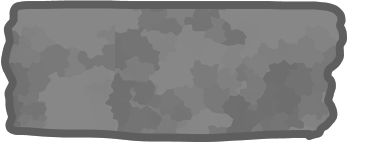
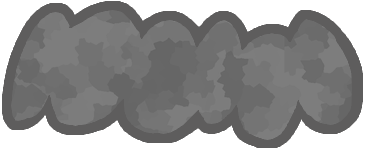
完成版

diff --git a/WCE2015Game-Siv3D(June2015v2)/Obstacle.cpp b/WCE2015Game-Siv3D(June2015v2)/Obstacle.cpp
@@ -3,7 +3,7 @@
 
 using namespace shimi;
 
-Obstacle::Obstacle(const Point& pos, const FilePath& imagePath, double simp = 3.0) : ObstacleBase(pos, MultiPolygon()), m_tex(imagePath)
+Obstacle::Obstacle(const s3d::Point& pos, const FilePath& imagePath, double simp = 3.0) : ObstacleBase(pos, MultiPolygon()), m_tex(imagePath)
 {
 	if (!FileSystem::Exists(imagePath))
 	{
@@ -64,26 +64,31 @@ void ObstacleBase::drawDebug()const
 	}
 }
 
-BreakableObstacle::BreakableObstacle(const Rect& rect, const ShimiColors& col)
-	:ObstacleBase(rect.pos, MultiPolygon({rect.asPolygon()})),
-	m_rect(rect),
-	m_col(col),
-	m_type(Type::Rect)
+TexturedObstacle::TexturedObstacle(const Point& pos, const FilePath& imagePath, double simp, const Optional<String>& tag)
+	:ObstacleBase(pos, MultiPolygon(), tag)
+{
+	setTextureAndPolygon(imagePath, simp);
+}
+
+TexturedObstacle::TexturedObstacle(const Point& pos, const Optional<String>& tag)
+	: ObstacleBase(pos, MultiPolygon(), tag)
 {
 }
 
-BreakableObstacle::BreakableObstacle(const Point& pos, const FilePath& imagePath, const ShimiColors& col, double simp)
-	:
-	ObstacleBase(pos, MultiPolygon()),
-	m_tex(imagePath),
-	m_col(col),
-	m_type(Type::Texture)
+void TexturedObstacle::draw()const
+{
+	m_tex.draw(D2Camera::I()->getDrawPos(m_pos));
+}
+
+void TexturedObstacle::setTextureAndPolygon(const FilePath& imagePath, double simp)
 {
 	if (!FileSystem::Exists(imagePath))
 	{
 		LOG_ERROR(L"Obstacle:Failed to Open File:" + imagePath);
 		return;
 	}
+
+	m_tex = Texture(imagePath);
 
 	const String dir = FileSystem::ParentPath(imagePath);
 	const String name = FileSystem::BaseName(imagePath);
@@ -105,19 +110,23 @@ BreakableObstacle::BreakableObstacle(const Point& pos, const FilePath& imagePath
 
 		m_pols = tempPol + m_pos;
 	}
-	/*
-	const auto& outer = m_pols.outer
+}
 
-	for (auto& pols : m_pols)
-	{
+BreakableObstacle::BreakableObstacle(const Rect& rect, const ShimiColors& col)
+	:TexturedObstacle(rect.pos),
+	m_rect(rect),
+	m_col(col),
+	m_type(Type::Rect)
+{
+	m_pols = MultiPolygon({ rect.asPolygon() });
+}
 
-	}
-	*/
-
-
-#ifdef _DEBUG
-	//LOG_DEBUG(L"Obstacle Constracted:", Format(m_pols));
-#endif
+BreakableObstacle::BreakableObstacle(const Point& pos, const FilePath& imagePath, const ShimiColors& col, double simp)
+	:
+	TexturedObstacle(pos, imagePath),
+	m_col(col),
+	m_type(Type::Texture)
+{
 }
 
 void BreakableObstacle::draw()const
@@ -129,7 +138,7 @@ void BreakableObstacle::draw()const
 		m_rect.movedBy(D2Camera::I()->getDrawPos({ 0, 0 }).asPoint()).drawFrame(4.0, 0.0, ToColor(m_col));
 		break;
 	case shimi::BreakableObstacle::Type::Texture:
-		m_tex.draw(D2Camera::I()->getDrawPos(m_pos));
+		TexturedObstacle::draw();
 		break;
 	default:
 		break;
@@ -144,17 +153,9 @@ bool BreakableObstacle::shotByColor(const Optional<ShimiColors>& col)
 	return col.value() == m_col;
 }
 
-TriggerBreakableObject::TriggerBreakableObject(const Rect& rect, const String& tag)
-	:ObstacleBase(rect.pos, MultiPolygon({ rect.asPolygon() }), tag),
-	m_rect(rect)
+TriggerBreakableObject::TriggerBreakableObject(const Point& pos, const FilePath& imagePath, const String& tag, double simp)
+	:TexturedObstacle(pos, imagePath, simp, tag)
 {
-
-}
-
-void TriggerBreakableObject::draw()const
-{
-	m_rect.movedBy(D2Camera::I()->getDrawPos({ 0, 0 }).asPoint()).draw(Color(120, 120, 120).setAlpha(128));
-	m_rect.movedBy(D2Camera::I()->getDrawPos({ 0, 0 }).asPoint()).drawFrame(4.0, 0.0, Color(120, 120, 120));
 }
 
 void RectObstacle::draw()const

diff --git a/WCE2015Game-Siv3D(June2015v2)/Obstacle.hpp b/WCE2015Game-Siv3D(June2015v2)/Obstacle.hpp
@@ -94,10 +94,30 @@ public:
 
 };
 
-class BreakableObstacle : public ObstacleBase
+class TexturedObstacle : public ObstacleBase
 {
 public:
+	TexturedObstacle(){}
 
+	TexturedObstacle(const Point& pos, const Optional<String>& tag = none);
+
+	TexturedObstacle(const Point& pos, const FilePath& imagePath, double simp = 3.0, const Optional<String>& tag = none);
+
+	Texture m_tex;
+
+	void setTextureAndPolygon(const FilePath& imagePath, double simp);
+
+	virtual void draw()const override;
+
+	virtual void endingDraw()const override
+	{
+	}
+
+};
+
+class BreakableObstacle : public TexturedObstacle
+{
+public:
 	enum class Type
 	{
 		Rect,
@@ -111,8 +131,6 @@ public:
 	BreakableObstacle(const Point& pos, const FilePath& imagePath, const ShimiColors& col, double simp = 3.0);
 
 	bool shotByColor(const Optional<ShimiColors>& col)override;
-
-	Texture m_tex;
 
 	Rect m_rect;
 
@@ -129,23 +147,16 @@ public:
 
 };
 
-
-class TriggerBreakableObject : public ObstacleBase
+class TriggerBreakableObject : public TexturedObstacle
 {
 public:
 
 	TriggerBreakableObject(){}
 
-	TriggerBreakableObject(const Rect& rect, const String& tag);
-
-	Rect m_rect;
-
-	void draw()const override;
+	TriggerBreakableObject(const Point& pos, const FilePath& imagePath, const String& tag, double simp = 3.0);
 
 	void endingDraw()const override
 	{
 	}
-
-
 };
 }

diff --git a/WCE2015Game-Siv3D(June2015v2)/State.cpp b/WCE2015Game-Siv3D(June2015v2)/State.cpp
@@ -366,7 +366,7 @@ void state::boss1::Vanish::enter(Boss1& gb)
 
 	EffectManager::I()->effect.add<BossVanish>(gb.m_pos, 250);
 
-	BGMManager::I()->changeBGM(L"NormalStage");
+	BGMManager::I()->changeBGMAtBoss(L"NormalStage");
 
 	gb.m_gb->breakObstacleByTag(L"Boss1Exit");
 
@@ -482,7 +482,7 @@ void state::boss2::Vanish::enter(Boss2& gb)
 
 	EffectManager::I()->effect.add<BossVanish>(gb.m_pos, 250);
 
-	BGMManager::I()->changeBGM(L"NormalStage");
+	BGMManager::I()->changeBGMAtBoss(L"NormalStage");
 
 	SoundAsset(L"BossVanish").playMulti();
 

diff --git a/WCE2015Game-Siv3D(June2015v2)/GameBase.cpp b/WCE2015Game-Siv3D(June2015v2)/GameBase.cpp
@@ -282,6 +282,8 @@ void shimi::GameBase::mainGameUpdate(bool ending, bool myVehicleStop)
 		return;
 	}
 
+	BGMManager::I()->update();
+
 #ifdef _DEBUG
 	m_debugP.update();
 #endif
@@ -649,6 +651,8 @@ void shimi::GameBase::readEnemyData(const FilePath& path)
 	}
 };
 
+
+#undef _DEBUG
 
 void shimi::GameBase::checkGameClear()
 {

diff --git a/WCE2015Game-Siv3D(June2015v2)/State2.cpp b/WCE2015Game-Siv3D(June2015v2)/State2.cpp
@@ -267,7 +267,7 @@ void state::boss3::Vanish::enter(Boss3& gb)
 
 	EffectManager::I()->effect.add<BossVanish>(gb.m_pos, 250);
 
-	BGMManager::I()->changeBGM(L"NormalStage");
+	BGMManager::I()->changeBGMAtBoss(L"NormalStage");
 
 	SoundAsset(L"BossVanish").playMulti();
 
